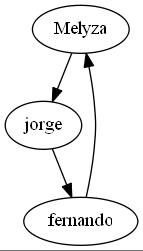
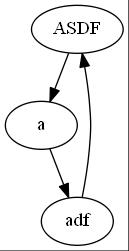
GraficaFichas

diff --git a/Practica1Estructuras/src/practica1estructuras/Principal.java b/Practica1Estructuras/src/practica1estructuras/Principal.java
@@ -571,6 +571,8 @@ public class Principal extends javax.swing.JFrame {
     private void jButton7ActionPerformed(java.awt.event.ActionEvent evt) {//GEN-FIRST:event_jButton7ActionPerformed
         if (jugarOK) {
             asignarFichasAJugador();
+            ArchivoFichasActivas();
+            generarImagenFichasActivas();
             imprimirJugadores();
         } else {
             JOptionPane.showMessageDialog(this, "No se han ingresado los jugadores", "Scrabble dice", JOptionPane.INFORMATION_MESSAGE);
@@ -659,7 +661,7 @@ public class Principal extends javax.swing.JFrame {
 
         }
     }
-
+ 
     public void asigAbajo() {
         Posicion bandera = new Posicion();
         bandera = primeraPosicion;
@@ -729,7 +731,46 @@ public class Principal extends javax.swing.JFrame {
         }
     }
 
+    public void addBonus(Bonus actual) {
+        if (primerBonus == null) {
+            primerBonus = actual;
+            ultimoBonus = actual;
+            System.out.println("Se ha registrado una casilla de bonus: " + actual.fila + "," + actual.columna + "  x" + actual.bonus);
+        } else {
+            ultimoBonus.siguiente = actual;
+            ultimoBonus = actual;
+            ultimoBonus.siguiente = null;
+            System.out.println("Se ha registrado una casilla de bonus: " + actual.fila + "," + actual.columna + "  x" + actual.bonus);
+        }
+    }
+
+    public void asignarBonus() {
+        Bonus bandera = new Bonus();
+        bandera = primerBonus;
+
+        while (bandera != null) {
+
+            Posicion temp = new Posicion();
+            temp = primeraPosicion;
+
+            while (temp != null) {
+
+                Posicion temp2 = new Posicion();
+                temp2 = temp;
+                while (temp2 != null) {
+                    if ((temp2.fila == bandera.fila) && (temp2.columna == bandera.columna)) {
+                        temp2.bonus = bandera.bonus;
+                        temp2.contenido.setText("x" + String.valueOf(temp2.bonus));
+                    }
+                    temp2 = temp2.derecha;
+                }
+                temp = temp.abajo;
+            }
+            bandera = bandera.siguiente;
+        }
+    }
     //Fin creacion de tablero
+    
     //Metodos de jugador
     public void addJugador(Jugador actual) {
         if (primeroJugador == null) {
@@ -854,12 +895,7 @@ public class Principal extends javax.swing.JFrame {
 
     public void asignarFichasAJugador() {
         Jugador paraAsignar = new Jugador();
-        paraAsignar = primeroJugador;
-
-        while (paraAsignar != null) {
-
-            if (paraAsignar == ultimoJugador) {
-                if (paraAsignar.primera == null) {
+        paraAsignar = jugadorActual;
                     for (int asig = 0; asig < 7; asig++) {
                         fichaRetirar = primeraFicha;
                         if (paraAsignar.primera == null) {
@@ -878,35 +914,64 @@ public class Principal extends javax.swing.JFrame {
                             primeraFicha = fi;
                         }
                     }
-                }
-                break;
-            } else {
-                if (paraAsignar.primera == null) {
-                    for (int asig = 0; asig < 7; asig++) {
-                        fichaRetirar = primeraFicha;
-                        if (paraAsignar.primera == null) {
-                            Ficha fi = new Ficha();
-                            fi = primeraFicha.siguiente;
-                            paraAsignar.primera = fichaRetirar;
-                            paraAsignar.ultima = fichaRetirar;
-
-                            primeraFicha = fi;
-                        } else {
-                            Ficha fi = new Ficha();
-                            fi = primeraFicha.siguiente;
-                            paraAsignar.ultima.siguiente = fichaRetirar;
-                            paraAsignar.ultima = fichaRetirar;
-                            paraAsignar.ultima.siguiente = null;
-                            primeraFicha = fi;
-                        }
-                    }
-                }
-                paraAsignar = paraAsignar.siguiente;
-            }
-        }
 
     }
 
+    public void generarImagenFichasActivas(){
+     try {
+            String dotPath = "C:\\release\\bin\\dot.exe";
+            String fileInputPath = "C:\\release\\Estructuras\\archivoJugadorFichas.txt";
+            String fileOutputPath = "C:\\Users\\MelyzaR\\Documents\\GitHub\\Practica1s12017_201314821\\Practica1Estructuras\\src\\practica1estructuras\\imagenFichasActivas.png";
+            String tParam = "-Tjpg";
+            String tOParam = "-o";
+            String[] cmd = new String[5];
+            cmd[0] = dotPath;
+            cmd[1] = tParam;
+            cmd[2] = fileInputPath;
+            cmd[3] = tOParam;
+            cmd[4] = fileOutputPath;
+            Runtime rt = Runtime.getRuntime();
+            rt.exec(cmd);
+        } catch (Exception ex) {
+            JOptionPane.showMessageDialog(null, "Scrabble dice: " + ex.getMessage());
+        } finally {
+        }
+    }
+    
+    public void ArchivoFichasActivas(){
+    String textArchivo = "digraph imagenFichasActivas{\n";
+
+        Ficha bandera = new Ficha();
+        bandera = jugadorActual.primera;
+
+        do {
+            if (bandera == jugadorActual.primera && bandera == jugadorActual.ultima) {
+                textArchivo = textArchivo + bandera.letra + ";";
+            } else if (bandera == jugadorActual.primera) {
+                textArchivo = textArchivo + bandera.letra;
+            } else if (bandera == jugadorActual.ultima) {
+                textArchivo = textArchivo + "->" + bandera.letra + ";\n";
+            } else {
+                textArchivo = textArchivo + "->" + bandera.letra + ";\n" + bandera.letra;
+            }
+            bandera = bandera.siguiente;
+        } while (bandera != null);
+        textArchivo = textArchivo + "}";
+
+        try {
+            File archivo = new File("C:\\release\\Estructuras\\archivoJugadorFichas.txt");
+            if (archivo.exists()) {
+                archivo.delete();
+            }
+            FileWriter escribir = new FileWriter(archivo, true);
+            escribir.write(textArchivo);
+            escribir.close();
+        } catch (Exception ex) {
+            JOptionPane.showMessageDialog(null, "Scrabble dice: " + ex.getMessage());
+        }
+
+    }
+    
     public void imprimirJugadores() {
         Jugador bandera = new Jugador();
         bandera = primeroJugador;
@@ -1485,45 +1550,7 @@ public class Principal extends javax.swing.JFrame {
     }
 
     //Fin metodos de palabra 
-    //Bonus casillas
-    public void addBonus(Bonus actual) {
-        if (primerBonus == null) {
-            primerBonus = actual;
-            ultimoBonus = actual;
-            System.out.println("Se ha registrado una casilla de bonus: " + actual.fila + "," + actual.columna + "  x" + actual.bonus);
-        } else {
-            ultimoBonus.siguiente = actual;
-            ultimoBonus = actual;
-            ultimoBonus.siguiente = null;
-            System.out.println("Se ha registrado una casilla de bonus: " + actual.fila + "," + actual.columna + "  x" + actual.bonus);
-        }
-    }
-
-    public void asignarBonus() {
-        Bonus bandera = new Bonus();
-        bandera = primerBonus;
-
-        while (bandera != null) {
-
-            Posicion temp = new Posicion();
-            temp = primeraPosicion;
-
-            while (temp != null) {
-
-                Posicion temp2 = new Posicion();
-                temp2 = temp;
-                while (temp2 != null) {
-                    if ((temp2.fila == bandera.fila) && (temp2.columna == bandera.columna)) {
-                        temp2.bonus = bandera.bonus;
-                        temp2.contenido.setText("x" + String.valueOf(temp2.bonus));
-                    }
-                    temp2 = temp2.derecha;
-                }
-                temp = temp.abajo;
-            }
-            bandera = bandera.siguiente;
-        }
-    }
+   
 
     /**
      * @param args the command line arguments
